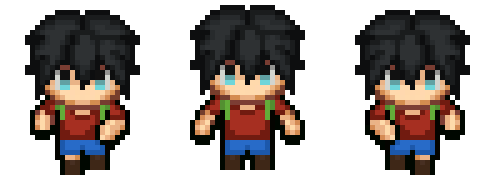
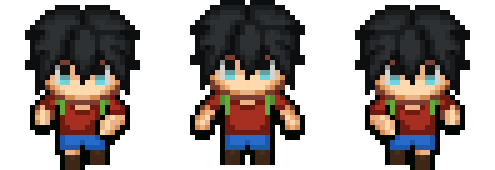
анимации

diff --git a/DungeonsGame/DungeonsGame/Game1.cs b/DungeonsGame/DungeonsGame/Game1.cs
@@ -108,7 +108,7 @@ namespace DungeonsGame
                 PersonWalkRight = Content.Load<Texture2D>("walkRight"), 
                 Content.Load<Texture2D>("standing"), 
 
-                new Rectangle(30, cont.Height.X2/2, 155, 170));
+                new Rectangle(188,8111, 155, 170));
 
             player.Direction = Direction.Right;
 

diff --git a/DungeonsGame/DungeonsGame/Player.cs b/DungeonsGame/DungeonsGame/Player.cs
@@ -16,7 +16,7 @@ namespace DungeonsGame
 
         public Vector2 personPosition = Vector2.Zero;
 
-        public int frameWidth = 155;
+        public int frameWidth = 165;
         public int frameHeight = 170;
 
         int frameWidthStanding = 165;
